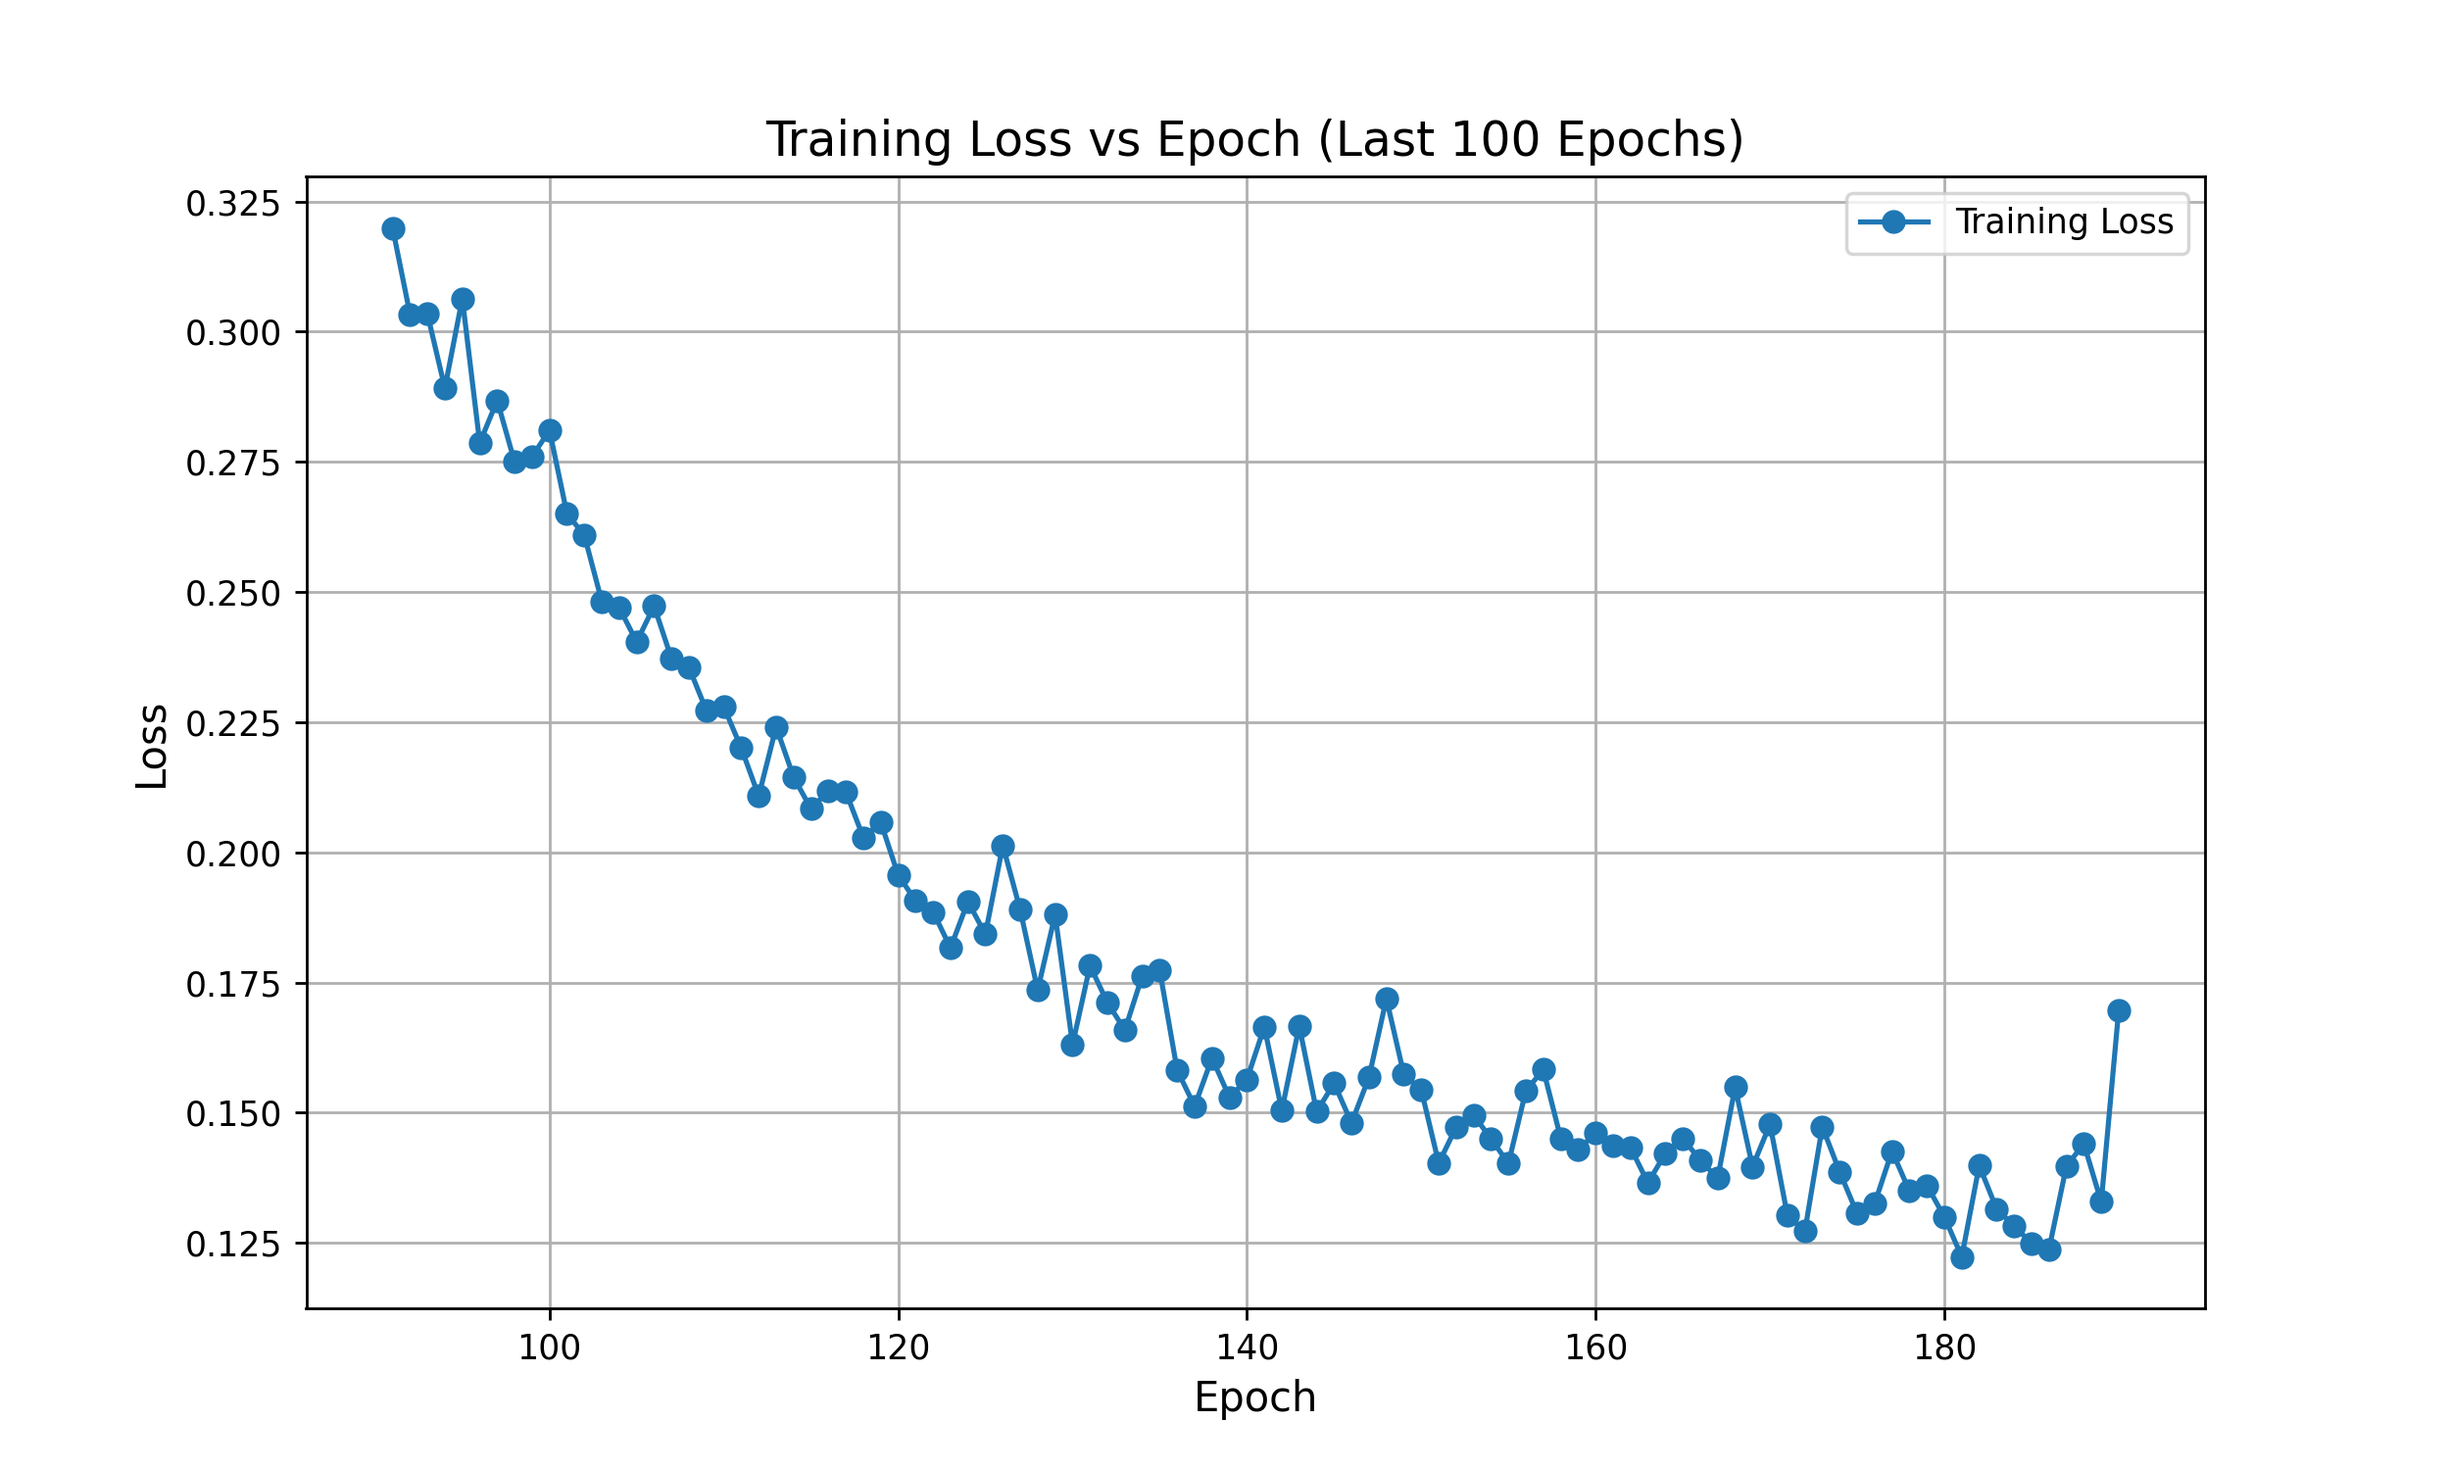
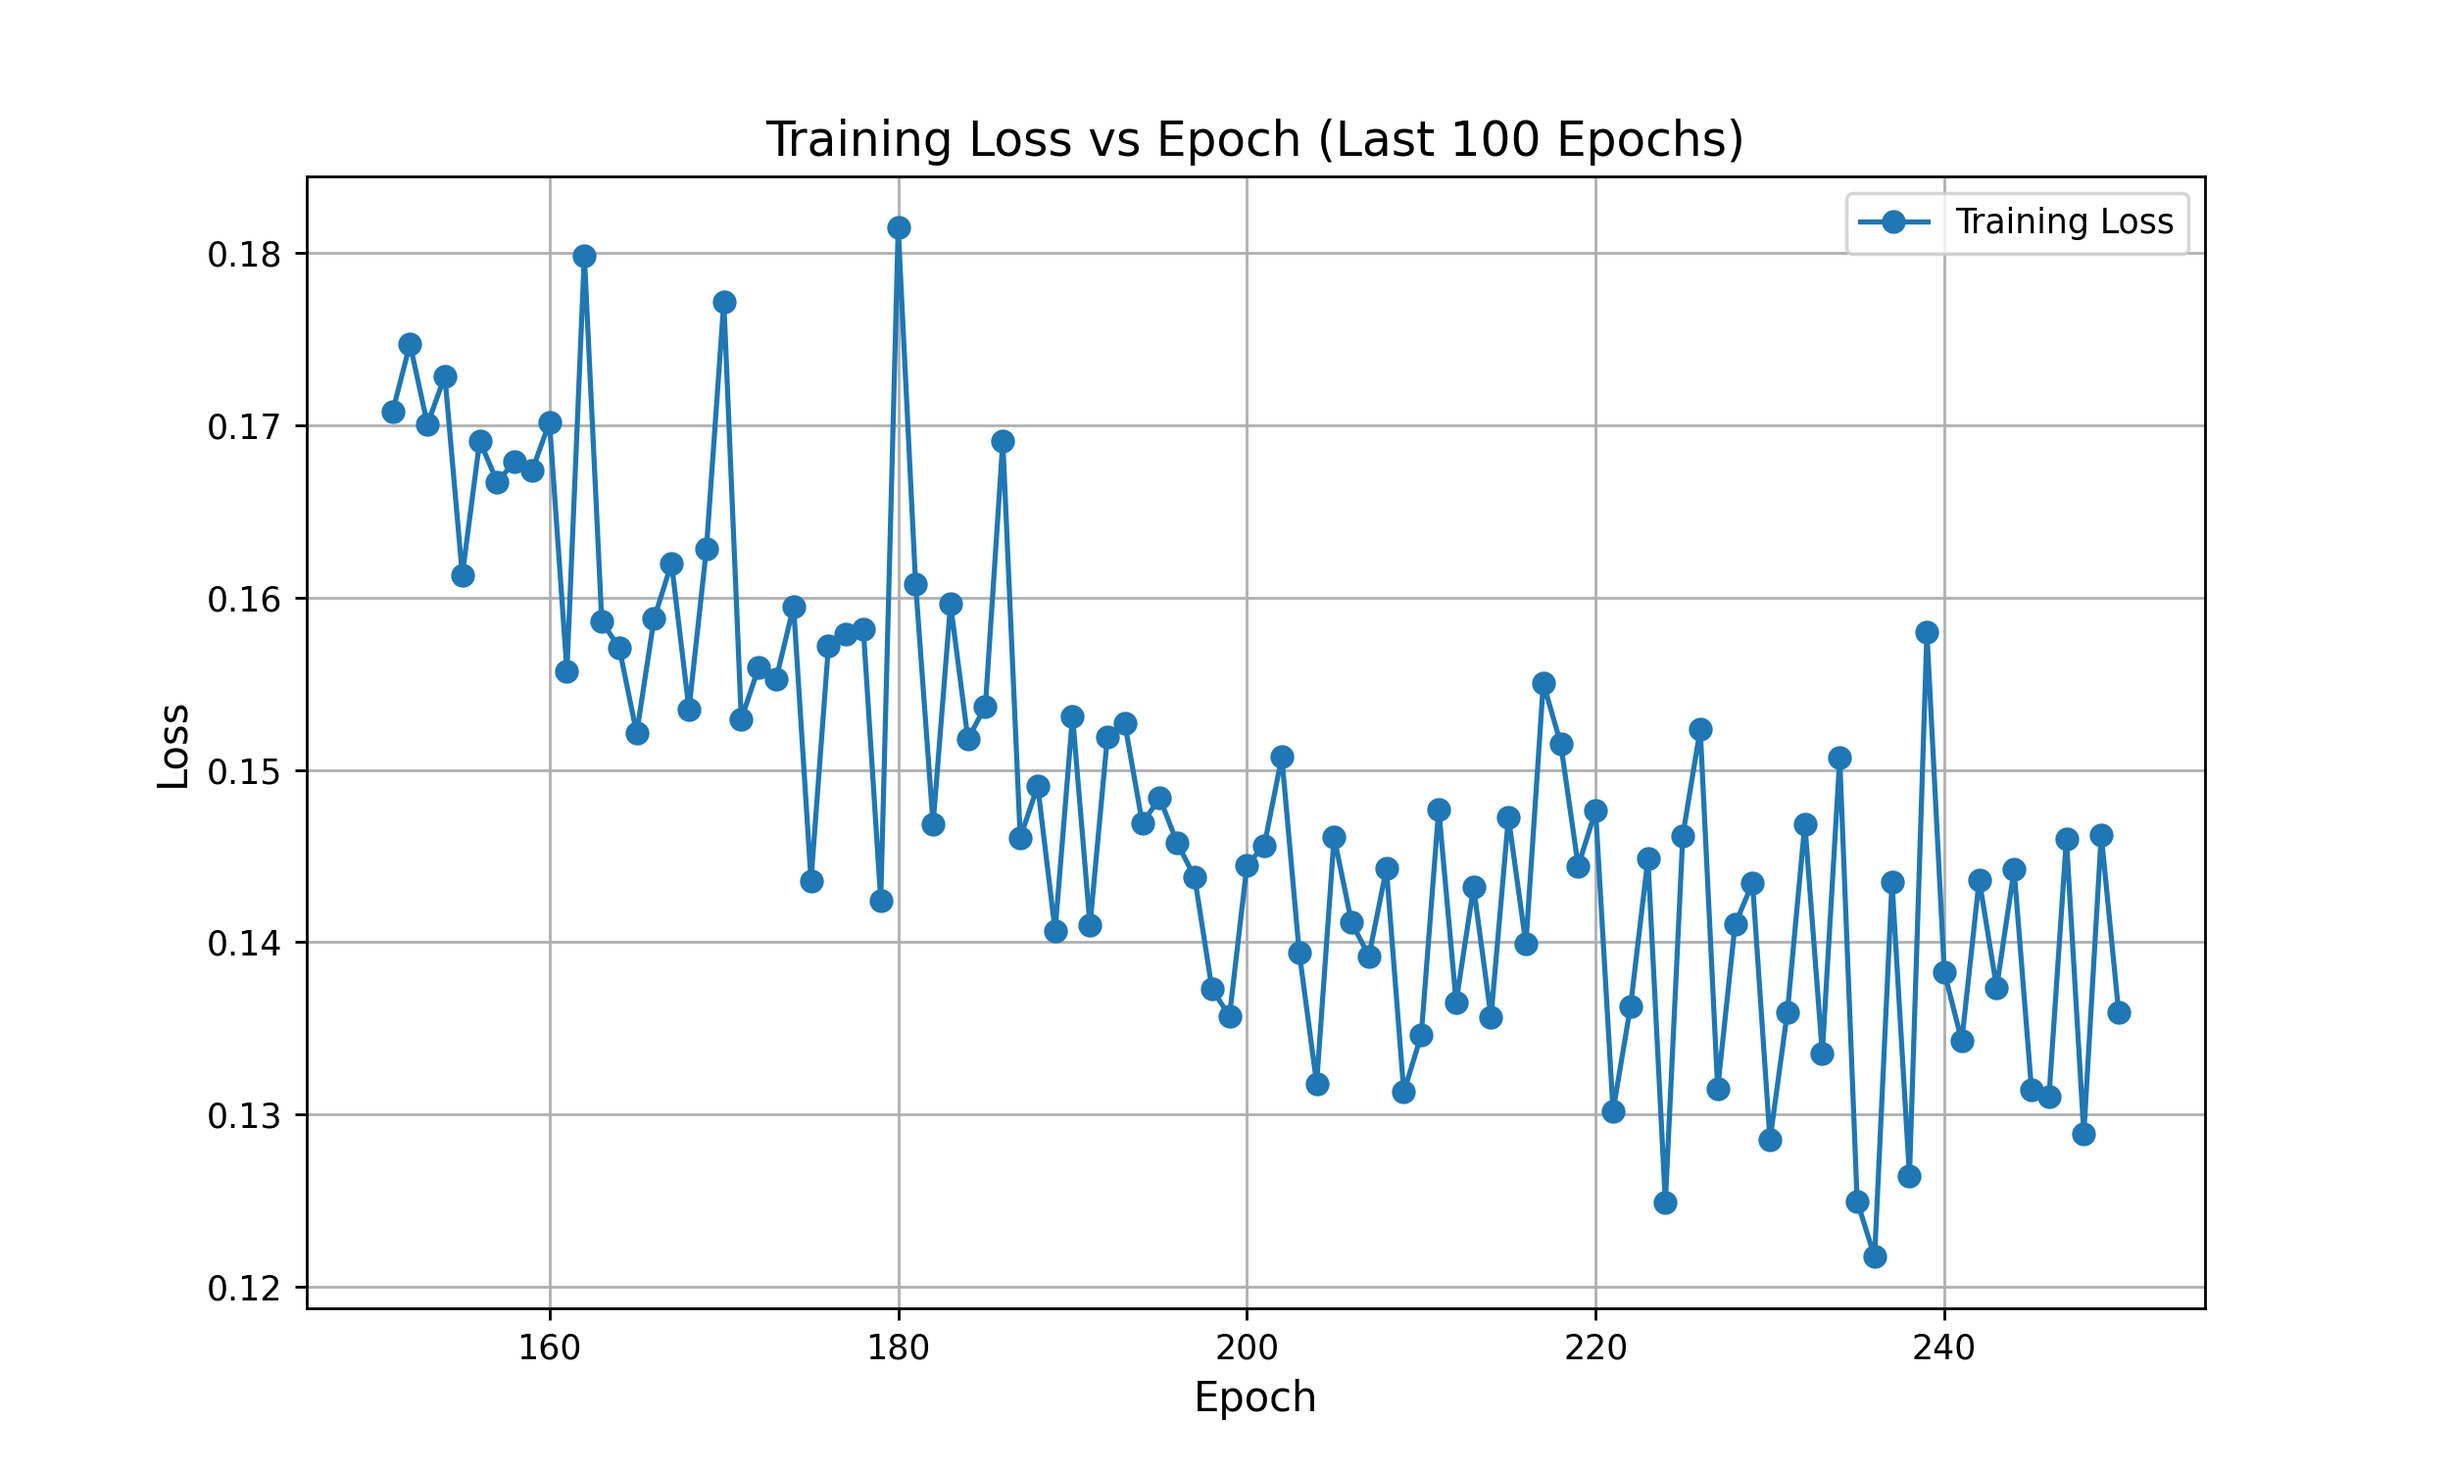
increased patience of early stopping

diff --git a/Machine Learning/neural_network_1st_attempt.py b/Machine Learning/neural_network_1st_attempt.py
@@ -112,7 +112,7 @@ optimizer = optim.Adam(model.parameters(), lr=0.001)  # Adam optimizer with lear
 
 # Step 2: Training Loop
 epochs = 375  # Number of epochs to train
-patience = 10  # number of epochs with no improvement before stopping
+patience = 15  # number of epochs with no improvement before stopping
 epochs_since_improvement = 0  # Initialize counter for early stopping
 # Initialize best_loss with a very large number
 best_loss = float('inf')  # Start with infinity, so any loss will be smaller
